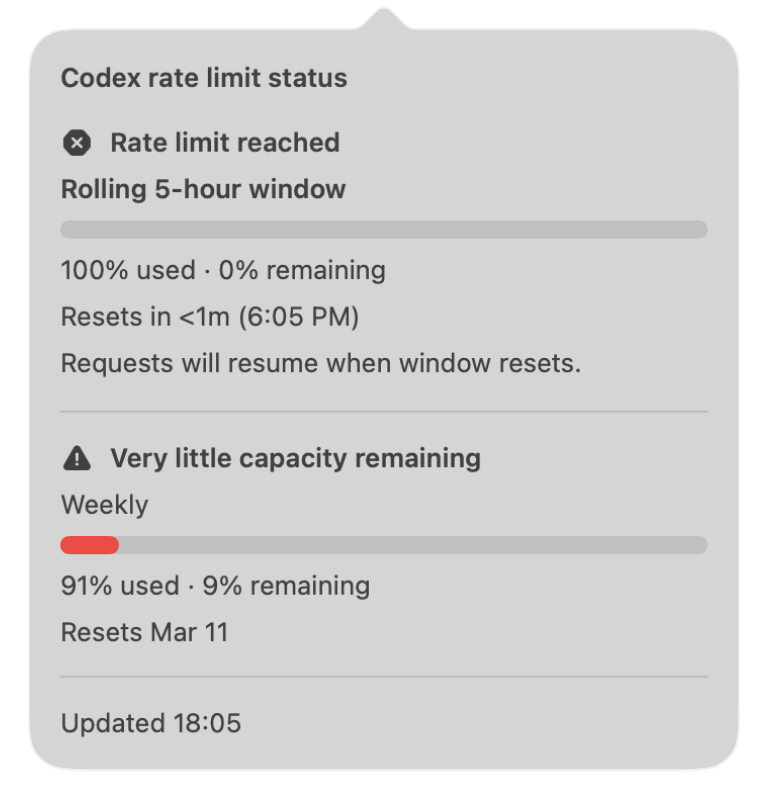
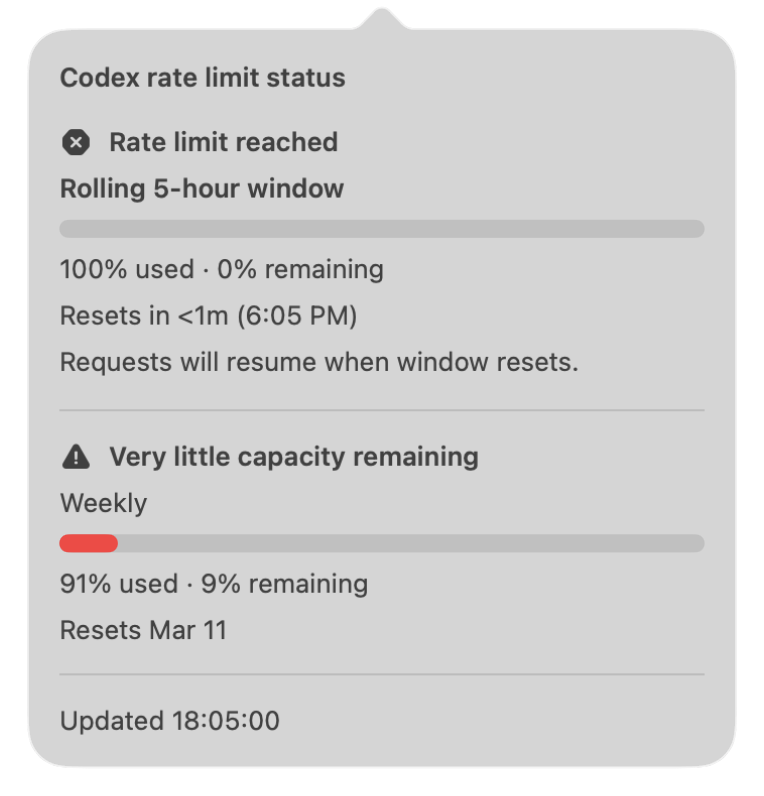
Show seconds in updated footer

diff --git a/Tests/CodexToolbarTests/RateLimitFormatterTests.swift b/Tests/CodexToolbarTests/RateLimitFormatterTests.swift
@@ -51,4 +51,18 @@ final class RateLimitFormatterTests: XCTestCase {
             "Resets Mar 11"
         )
     }
+
+    func testUpdatedFooterTextIncludesSeconds() {
+        let timeZone = TimeZone(secondsFromGMT: 0)!
+        let locale = Locale(identifier: "en_US_POSIX")
+        let formatter = ISO8601DateFormatter()
+        formatter.timeZone = timeZone
+
+        let timestamp = formatter.date(from: "2026-03-06T13:03:07Z")!
+
+        XCTAssertEqual(
+            RateLimitFormatter.updatedFooterText(for: timestamp, locale: locale, timeZone: timeZone),
+            "Updated 1:03:07 PM"
+        )
+    }
 }

diff --git a/Sources/CodexToolbar/Support/RateLimitFormatter.swift b/Sources/CodexToolbar/Support/RateLimitFormatter.swift
@@ -117,4 +117,16 @@ enum RateLimitFormatter {
 
         return "Resets \(absolute)"
     }
+
+    static func updatedFooterText(
+        for date: Date,
+        locale: Locale = .current,
+        timeZone: TimeZone = .current
+    ) -> String {
+        let formatter = DateFormatter()
+        formatter.locale = locale
+        formatter.timeZone = timeZone
+        formatter.dateFormat = "h:mm:ss a"
+        return "Updated \(formatter.string(from: date))"
+    }
 }

diff --git a/Sources/CodexToolbar/Views/StatusMenuContentView.swift b/Sources/CodexToolbar/Views/StatusMenuContentView.swift
@@ -28,7 +28,7 @@ struct StatusMenuContentView: View {
 
             if let lastUpdated = store.lastUpdated, !store.cards.isEmpty {
                 Divider()
-                Text("Updated \(lastUpdated.formatted(date: .omitted, time: .shortened))")
+                Text(RateLimitFormatter.updatedFooterText(for: lastUpdated))
                     .font(.body)
                     .foregroundStyle(.primary)
             }
